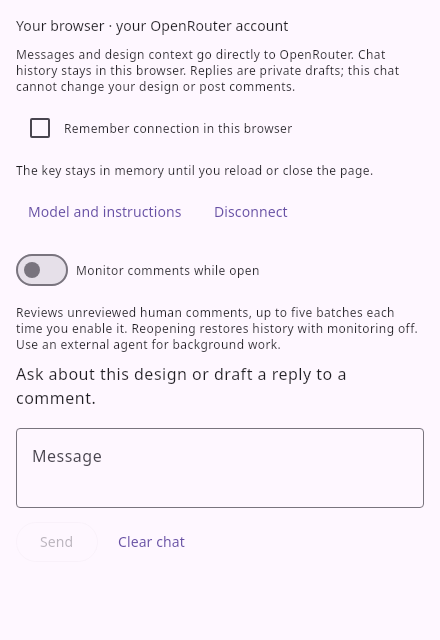
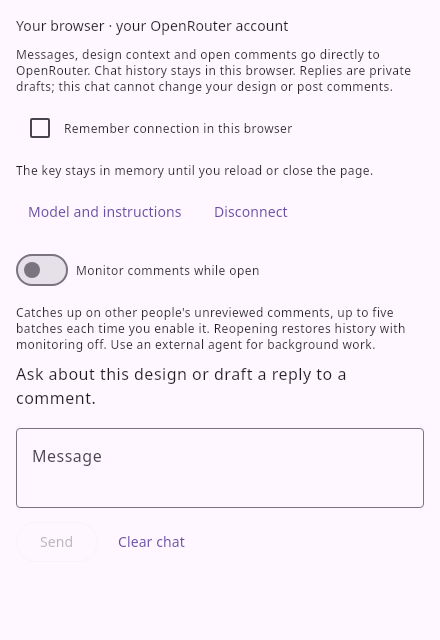
fix: preserve editor configuration through provider sign-in

Changed region(s): [[0.0295, 0.4688, 0.9455, 0.5625], [0.0295, 0.0625, 0.9455, 0.1562]]

diff --git a/ui-builder/src/wasmJsMain/kotlin/ee/schimke/composeai/uibuilder/BrowserChatHost.kt b/ui-builder/src/wasmJsMain/kotlin/ee/schimke/composeai/uibuilder/BrowserChatHost.kt
@@ -30,6 +30,7 @@ private const val CHAT_CALLBACK = "openrouter-chat-callback"
 private const val CHAT_VERIFIER = "ui-builder.chat.pkce-verifier"
 private val chatJson = Json { ignoreUnknownKeys = true }
 private val connections = mutableMapOf<String, BrowserChatConnection>()
+private var chatSignInNotice by mutableStateOf<String?>(null)
 
 /** Account-scoped memory by default. Remembering a provider key is an explicit browser choice. */
 private class BrowserChatConnection(actorId: String) {
@@ -82,9 +83,10 @@ internal class BrowserChatHost(
     get() = connection.remembered
 
   override val connectionNotice
-    get() = connection.notice
+    get() = connection.notice ?: chatSignInNotice
 
   override fun connect() {
+    chatSignInNotice = null
     if (!rememberChatSignInAccount(actorId)) {
       connection.notice = "This browser cannot keep the sign-in verifier. Paste a key instead."
       return
@@ -92,7 +94,10 @@ internal class BrowserChatHost(
     beginOpenRouterSignIn(CHAT_VERIFIER, CHAT_CALLBACK)
   }
 
-  override fun useKey(key: String) = connection.useKey(key)
+  override fun useKey(key: String) {
+    chatSignInNotice = null
+    connection.useKey(key)
+  }
 
   override fun rememberConnection(remember: Boolean) = connection.remember(remember)
 
@@ -204,12 +209,16 @@ internal class BrowserChatHost(
 internal fun startBrowserChatSignInAtBoot(scope: CoroutineScope) {
   if (!isChatSignInReturn()) return
   val actorId = takeChatSignInAccount()
+  if (actorId.isBlank()) {
+    discardChatSignInReturn()
+    chatSignInNotice = "OpenRouter sign-in lost its browser account. Connect again or paste a key."
+    return
+  }
   scope.launch {
     val result = runCatching {
       withTimeout(20_000) { exchangeOpenRouterSignIn(CHAT_VERIFIER, CHAT_CALLBACK) }
     }
       .getOrNull()
-    if (actorId.isBlank()) return@launch
     val connection = connections.getOrPut(actorId) { BrowserChatConnection(actorId) }
     when (result) {
       is DesignGuidelineHost.SignInResult.Signed -> connection.useKey(result.key)
@@ -249,6 +258,20 @@ private external fun rememberChatSignInAccount(actorId: String): Boolean
 }"""
 )
 private external fun takeChatSignInAccount(): String
+
+@JsFun(
+  """() => {
+  try {
+    sessionStorage.removeItem('ui-builder.chat.pkce-verifier');
+    sessionStorage.removeItem('ui-builder.chat.pkce-verifier.page');
+  } catch (_) {}
+  const url = new URL(globalThis.location.href);
+  url.searchParams.delete('code');
+  url.searchParams.delete('openrouter-chat-callback');
+  globalThis.history.replaceState(globalThis.history.state, '', url.toString());
+}"""
+)
+private external fun discardChatSignInReturn()
 
 @JsFun(
   "() => new URL(globalThis.location.href).searchParams.get('openrouter-chat-callback') === '1'"

diff --git a/ui-builder/src/wasmJsMain/kotlin/ee/schimke/composeai/uibuilder/BrowserGuidelineHost.kt b/ui-builder/src/wasmJsMain/kotlin/ee/schimke/composeai/uibuilder/BrowserGuidelineHost.kt
@@ -378,6 +378,10 @@ private external fun writeGuidelineSetting(key: String, value: String)
   crypto.subtle.digest('SHA-256', new TextEncoder().encode(verifier)).then((digest) => {
     sessionStorage.setItem(storageKey, verifier);
     const back = new URL(globalThis.location.href);
+    // Keep boot configuration and private selectors in this tab, never in the provider URL.
+    for (const name of ['token', 'code', 'openrouter-callback', 'openrouter-chat-callback'])
+      back.searchParams.delete(name);
+    sessionStorage.setItem(storageKey + '.page', back.toString());
     back.hash = '';
     // Carry only editor selectors back. Never put an application token in a provider callback.
     const selectors = ['revision', 'node'].map(name => [name, back.searchParams.get(name)]);
@@ -394,6 +398,37 @@ internal external fun beginOpenRouterSignIn(
   storageKey: String,
   callbackMarker: String,
 )
+
+/**
+ * Restore this tab's editor configuration before boot reads identity, storage mode or selectors.
+ */
+@JsFun(
+  """() => {
+  const returned = new URL(globalThis.location.href);
+  const flows = [
+    ['openrouter-callback', 'ui-builder.guidelines.pkce-verifier'],
+    ['openrouter-chat-callback', 'ui-builder.chat.pkce-verifier'],
+  ];
+  for (const [marker, storageKey] of flows) {
+    if (returned.searchParams.get(marker) !== '1') continue;
+    try {
+      const saved = sessionStorage.getItem(storageKey + '.page');
+      sessionStorage.removeItem(storageKey + '.page');
+      if (!saved) continue;
+      const page = new URL(saved);
+      if (page.origin !== returned.origin || page.pathname !== returned.pathname) continue;
+      for (const name of ['token', 'code', 'openrouter-callback', 'openrouter-chat-callback'])
+        page.searchParams.delete(name);
+      page.searchParams.set(marker, '1');
+      const code = returned.searchParams.get('code');
+      if (code !== null) page.searchParams.set('code', code);
+      globalThis.history.replaceState(globalThis.history.state, '', page.toString());
+      return;
+    } catch (_) {}
+  }
+}"""
+)
+internal external fun restoreOpenRouterPageAtBoot()
 
 /**
  * Step two, on the page OpenRouter returned to: take the code off the address (so a reload or a

diff --git a/ui-builder/src/jvmTest/kotlin/ee/schimke/composeai/uibuilder/UiBuilderChatControllerTest.kt b/ui-builder/src/jvmTest/kotlin/ee/schimke/composeai/uibuilder/UiBuilderChatControllerTest.kt
@@ -226,6 +226,68 @@ class UiBuilderChatControllerTest {
   }
 
   @Test
+  fun `posting my own reply does not consume an automatic review`() = runBlocking {
+    val host = Host()
+    val chat = UiBuilderChatController(host, this, actorId = "viewer")
+    val comments =
+      listOf(
+        DesignComment("other", "reviewer", body = "A concern"),
+        DesignComment("mine", "viewer", body = "My reply"),
+      )
+    chat.comments(
+      DesignCommentBoard(1, listOf(DesignCommentThread("thread", comments = comments))),
+      true,
+    )
+    chat.monitor(true)
+    yield()
+    assertEquals(1, host.requests.size)
+    assertTrue(host.requests.single().last().content.contains("A concern"))
+    assertFalse(host.requests.single().last().content.contains("My reply"))
+    host.answers.single().complete("Review")
+    yield()
+    yield()
+    chat.comments(
+      DesignCommentBoard(
+        2,
+        listOf(
+          DesignCommentThread(
+            "thread",
+            comments = comments + DesignComment("mine2", "viewer", body = "Another reply"),
+          )
+        ),
+      ),
+      true,
+    )
+    yield()
+    assertEquals(1, host.requests.size)
+    assertTrue(chat.monitoring)
+    chat.stop()
+  }
+
+  @Test
+  fun `resolving and reopening a retained thread does not review its comments again`() =
+    runBlocking {
+      val host = Host()
+      val chat = UiBuilderChatController(host, this)
+      val current = board("one")
+      chat.comments(current, true)
+      chat.monitor(true)
+      yield()
+      host.answers.single().complete("Review")
+      yield()
+      yield()
+      chat.comments(
+        current.copy(sequence = 2, threads = current.threads.map { it.copy(resolved = true) }),
+        true,
+      )
+      chat.comments(current.copy(sequence = 3), true)
+      yield()
+      assertEquals(1, host.requests.size)
+      assertEquals("one", host.stored.reviewedComments["thread"])
+      chat.stop()
+    }
+
+  @Test
   fun `context includes design text and instructions but excludes asset bytes and source URLs`() {
     val document =
       UiBuilderDocument(

diff --git a/ui-builder/src/commonMain/kotlin/ee/schimke/composeai/uibuilder/editor/BrowserChatContents.kt b/ui-builder/src/commonMain/kotlin/ee/schimke/composeai/uibuilder/editor/BrowserChatContents.kt
@@ -41,7 +41,7 @@ internal fun BrowserChatContents(chat: UiBuilderChatController) {
   ) {
     Text("Your browser · your OpenRouter account", style = MaterialTheme.typography.labelLarge)
     Text(
-      "Messages and design context go directly to OpenRouter. Chat history stays in this browser. " +
+      "Messages, design context and open comments go directly to OpenRouter. Chat history stays in this browser. " +
         "Replies are private drafts; this chat cannot change your design or post comments.",
       style = MaterialTheme.typography.bodySmall,
     )
@@ -108,7 +108,7 @@ internal fun BrowserChatContents(chat: UiBuilderChatController) {
         Text("Monitor comments while open", style = MaterialTheme.typography.bodySmall)
       }
       Text(
-        "Reviews unreviewed human comments, up to five batches each time you enable it. " +
+        "Catches up on other people's unreviewed comments, up to five batches each time you enable it. " +
           "Reopening restores history with monitoring off. Use an external agent for background work.",
         style = MaterialTheme.typography.bodySmall,
       )

diff --git a/ui-builder/src/commonMain/kotlin/ee/schimke/composeai/uibuilder/editor/UiBuilderChat.kt b/ui-builder/src/commonMain/kotlin/ee/schimke/composeai/uibuilder/editor/UiBuilderChat.kt
@@ -46,7 +46,11 @@ interface UiBuilderChatHost {
 }
 
 /** One in-flight turn per page; monitoring is always off when a saved conversation is reopened. */
-class UiBuilderChatController(val host: UiBuilderChatHost, private val scope: CoroutineScope) {
+class UiBuilderChatController(
+  val host: UiBuilderChatHost,
+  private val scope: CoroutineScope,
+  private val actorId: String? = null,
+) {
   var session by mutableStateOf(host.load())
     private set
 
@@ -135,7 +139,7 @@ class UiBuilderChatController(val host: UiBuilderChatHost, private val scope: Co
           val after = thread.comments.indexOfFirst { it.id == lastReviewed } + 1
           thread.comments
             .drop(after)
-            .filter { it.kind == DesignCommentAuthorKind.Human }
+            .filter { it.kind == DesignCommentAuthorKind.Human && it.authorId != actorId }
             .map { thread to it }
         }
         .take(20)

diff --git a/ui-builder/src/wasmJsMain/kotlin/ee/schimke/composeai/uibuilder/LiveSessionApp.kt b/ui-builder/src/wasmJsMain/kotlin/ee/schimke/composeai/uibuilder/LiveSessionApp.kt
@@ -1574,11 +1574,12 @@ private fun LiveSessionApp(
           BrowserChatHost(
             config.designId,
             config.actorId,
-            monitoringAvailable = revisionPin == null,
+            monitoringAvailable = revisionPin?.pinned != true,
           ) {
             browserChatContext(chatDocument, chatSelection, chatInstructions, chatComments)
           },
           scope,
+          actorId = config.actorId,
         )
       }
     DisposableEffect(browserChat) { onDispose { browserChat.stop() } }

diff --git a/ui-builder/src/wasmJsMain/kotlin/ee/schimke/composeai/uibuilder/Main.kt b/ui-builder/src/wasmJsMain/kotlin/ee/schimke/composeai/uibuilder/Main.kt
@@ -130,6 +130,7 @@ private external fun suppressBrowserContextMenu()
 
 fun main() {
   recordStartupMark("kotlin-start")
+  restoreOpenRouterPageAtBoot()
   stripPageToken()
   val rendererRuntimeId = sandboxRendererRuntimeId()
   if (rendererRuntimeId.isNotEmpty()) {

diff --git a/docs/design/UI_BUILDER_BROWSER_CHAT.md b/docs/design/UI_BUILDER_BROWSER_CHAT.md
@@ -8,7 +8,9 @@ Connecting authorizes sending the message, a bounded text view of the current de
 comments, and the person's saved general or per-design instructions to OpenRouter on each turn.
 Context includes node ids, component ids, selected node, revision and common text properties.
 It excludes document homes, asset bytes, source URLs and application credentials. The assistant
-can explain changes and draft replies; it has no tools and cannot edit, post, resolve or execute.
+also receives collaborators' open comments under the viewer's provider account; collaborators
+do not receive a separate provider-consent prompt. The assistant can explain changes and draft
+replies; it has no tools and cannot edit, post, resolve or execute.
 Outputs are displayed as selectable plain text, never executed or rendered as HTML.
 
 The model can be changed under **Model and instructions**. The default prompt is shown there;
@@ -22,6 +24,9 @@ agent handoff remains the route to Claude, Codex and other agents with design to
   thread. **Clear chat** removes that conversation and stops pending work.
 - OpenRouter PKCE sign-in has its own verifier and callback marker, separate from guideline
   sign-in. Callback URLs carry only revision/node selectors, never application tokens.
+  The rest of the editor URL configuration, including actor identity, local-design mode and the
+  private thread fragment, stays in this tab's sessionStorage and is restored before editor boot.
+  A return without its account marker is discarded before exchanging a provider key, with a notice.
   The key stays in page memory by default and is lost on reload or closure.
 - **Remember connection in this browser** explicitly saves the key for this actor on this origin.
   Turning it off removes the saved key but retains the in-memory connection. **Disconnect** stops
@@ -40,7 +45,8 @@ designs; static, embedded and offline editors keep their existing handoff behavi
 ## Monitoring while the page is open
 
 **Monitor comments while open** is an explicit spending decision. It consumes the existing comment
-feed and reviews unreviewed human comments in open threads, in batches of at most 20. Reviews stay
+feed and catches up on unreviewed human comments in open threads, excluding the viewer's own
+comments, in batches of at most 20. First enabling also reviews the existing backlog. Reviews stay
 in private chat. It does not post a reply or acknowledge/resolve a shared thread.
 
 Only one provider request runs at a time. Comments arriving during a request wait for the next
@@ -57,6 +63,10 @@ monitoring. Background work after the browser closes belongs to the user's exter
 their machine or personal cloud runtime, using the design host's expiring, scoped access grant.
 **External agent → Copy monitoring prompt** copies that task with instructions to ask before
 shared writes. Copying does not launch the external agent or create a grant.
+
+Comment cursors currently use ids. Deleting the last reviewed comment can cause that thread's
+remaining comments to be reviewed again, within the same five-batch spending limit. Resolved
+threads keep their cursors while they remain on the comment board.
 
 ## Verification
 
